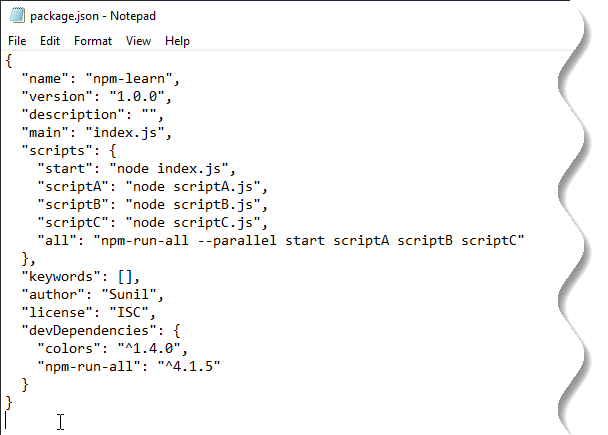
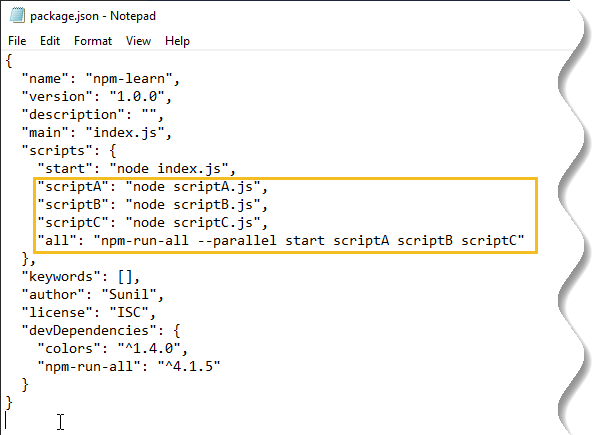
New command add

Changed region(s): [[0.0312, 0.4184, 0.9062, 0.5977], [0.0625, 0.3885, 0.875, 0.4184]]

diff --git a/README.md b/README.md
@@ -900,9 +900,15 @@ Edit package.json file to run NPM scripts simultaneously:
 
 ![npm-run-all-package-json-edit](/img/npm-run-all-package-json-edit.png)
 
-Now run scripts simultaneously by typing: `npm run all`:
+Now run scripts simultaneously by typing: `npm run all` (parallel):
 
 ![npm-run-all-script-a-script-b-script-c](/img/npm-run-all-script-a-script-b-script-c.png)
+
+If you want to run script one by one (Serial) then edit package.json file as follows: 
+
+![npm-run-all-script-serial](/img/npm-run-all-script-serial.png)
+
+
 
 <hr>
 
